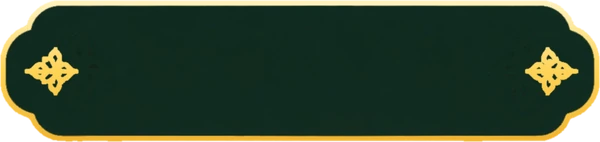
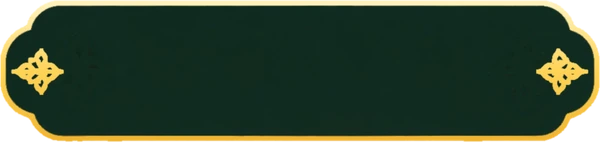
Ana ekran: tuş isimleri tek boyutta, ayet aşağıda, şeffaf gece/gündüz simgesi
- Tuş isimleri: en uzun ismin levhaya sığdığı en büyük punto hesaplanıp 12 tuşta da aynı kullanılır;
  levhanın uçlarındaki motifler kenara yaklaştırıldı, yazıya daha çok yer kaldı.
- Ayet, geri sayım panelinin sol kutusunun üstündeki boşluğa indirildi.
- Gece/gündüz düğmesi diğer sayfalardaki gibi şeffaf altın simge (gündüzde ay, gecede güneş).

Claude-Session: https://claude.ai/code/session_01DGn2qbp3aW4UFTr6T3CtEj

Changed region(s): [[0.0, 0.338, 0.15, 0.6761], [0.87, 0.338, 0.99, 0.6761]]

diff --git a/lib/screens/home_screen.dart b/lib/screens/home_screen.dart
@@ -143,6 +143,7 @@ class _HomeScreenState extends State<HomeScreen> {
               tileH = math.min(tileW / 0.95, (h - maxHero - (_rows - 1) * gap - 2 * pad) / _rows);
             }
             final gridH = gridFor(tileH);
+            final labelSize = MenuTile.fitLabelSize(_items.map((e) => e.title), tileW);
             final heroH = math.max(minHero, h - gridH);
             // Çok kısa ekranlarda (ör. yatay) sığmazsa kaydırılabilir; normalde kaydırma yok.
             final scrolls = heroH + gridH > h + 0.5;
@@ -174,6 +175,7 @@ class _HomeScreenState extends State<HomeScreen> {
                           title: item.title,
                           icon: item.icon,
                           style: AppPrefs.instance.tileStyle,
+                          labelSize: labelSize,
                           onTap: () => _onTap(item),
                         );
                       },
@@ -301,29 +303,33 @@ class _HomeScreenState extends State<HomeScreen> {
           child: Column(
             crossAxisAlignment: CrossAxisAlignment.stretch,
             children: [
-              Padding(
-                padding: EdgeInsets.only(left: 14, bottom: 6 * k),
-                child: Column(
-                  crossAxisAlignment: CrossAxisAlignment.start,
-                  children: [
-                    Text(
-                      '“Şüphesiz\nnamaz, müminler\nüzerine vakitleri\nbelirlenmiş bir farzdır.”',
-                      style: TextStyle(
-                        color: Colors.white,
-                        fontFamily: 'serif', // ayet eski yazı tipiyle, kalın italik
-                        fontSize: 12.5 * k,
-                        fontWeight: FontWeight.w600,
-                        height: 1.3,
-                        fontStyle: FontStyle.italic,
-                        shadows: shadow,
+              Transform.translate(
+                // Panelin sol kutusu ortadaki kemerden daha aşağıdan başlar; ayet o boşluğa iner.
+                offset: Offset(0, 18 * k),
+                child: Padding(
+                  padding: EdgeInsets.only(left: 14, bottom: 6 * k),
+                  child: Column(
+                    crossAxisAlignment: CrossAxisAlignment.start,
+                    children: [
+                      Text(
+                        '“Şüphesiz\nnamaz, müminler\nüzerine vakitleri\nbelirlenmiş bir farzdır.”',
+                        style: TextStyle(
+                          color: Colors.white,
+                          fontFamily: 'serif', // ayet eski yazı tipiyle, kalın italik
+                          fontSize: 12.5 * k,
+                          fontWeight: FontWeight.w600,
+                          height: 1.3,
+                          fontStyle: FontStyle.italic,
+                          shadows: shadow,
+                        ),
                       ),
-                    ),
-                    const SizedBox(height: 2),
-                    GoldText(
-                      'Nisâ, 103',
-                      style: TextStyle(fontFamily: 'serif', fontSize: 10.5 * k, fontWeight: FontWeight.w600),
-                    ),
-                  ],
+                      const SizedBox(height: 2),
+                      GoldText(
+                        'Nisâ, 103',
+                        style: TextStyle(fontFamily: 'serif', fontSize: 10.5 * k, fontWeight: FontWeight.w600),
+                      ),
+                    ],
+                  ),
                 ),
               ),
               Padding(
@@ -384,15 +390,12 @@ class _DayNightButton extends StatelessWidget {
                 : '${toDay ? 'Gündüz' : 'Gece'} görünümü seçildi. Ayarlar\'dan Otomatik\'e alabilirsiniz.',
           );
         },
-        child: Container(
+        // Diğer sayfaların başlığındaki gibi şeffaf altın simge: gündüzde ay (geceye geç), gecede güneş.
+        child: Image.asset(
+          day ? 'assets/images/ikon/imsak.webp' : 'assets/images/ikon/ikindi.webp',
           width: size,
           height: size,
-          decoration: BoxDecoration(
-            shape: BoxShape.circle,
-            color: const Color(0x66000000),
-            border: Border.all(color: const Color(0xB3EBB63B), width: 1.2),
-          ),
-          child: Center(child: GoldIcon(day ? Icons.nightlight_round : Icons.wb_sunny, size: size * 0.52)),
+          fit: BoxFit.contain,
         ),
       ),
     );

diff --git a/lib/widgets/menu_tile.dart b/lib/widgets/menu_tile.dart
@@ -11,6 +11,7 @@ class MenuTile extends StatelessWidget {
   final TileStyle style;
   final bool hasPhoto; // görseli henüz yoksa simgeli gösterilir
   final VoidCallback onTap;
+  final double labelSize; // tüm tuşlarda aynı; en uzun isim levhaya sığacak şekilde [fitLabelSize] ile bulunur
 
   const MenuTile({
     super.key,
@@ -20,7 +21,28 @@ class MenuTile extends StatelessWidget {
     required this.style,
     required this.onTap,
     this.hasPhoto = true,
+    this.labelSize = 17.5,
   });
+
+  /// Levhada, uçlardaki motiflerin arasında yazıya kalan genişlik oranı.
+  static const _textArea = 0.8;
+
+  /// Verilen tuş genişliğinde, isimlerin hepsinin levhaya sığdığı en büyük yazı boyutu (en çok 20).
+  static double fitLabelSize(Iterable<String> titles, double tileWidth) {
+    const probe = 20.0;
+    final avail = (tileWidth - 8) * _textArea;
+    var widest = 0.0;
+    for (final t in titles) {
+      final p = TextPainter(
+        text: TextSpan(
+            text: t, style: const TextStyle(fontFamily: 'EBGaramond', fontWeight: FontWeight.w600, fontSize: probe)),
+        textDirection: TextDirection.ltr,
+        maxLines: 1,
+      )..layout();
+      if (p.width > widest) widest = p.width;
+    }
+    return widest == 0 ? probe : (probe * avail / widest * 0.92).clamp(10.0, probe);
+  }
 
   @override
   Widget build(BuildContext context) {
@@ -48,7 +70,7 @@ class MenuTile extends StatelessWidget {
             image: DecorationImage(image: AssetImage('assets/images/levha.webp'), fit: BoxFit.fill),
           ),
           child: FractionallySizedBox(
-            widthFactor: 0.7,
+            widthFactor: _textArea,
             child: Center(
               child: FittedBox(
                 fit: BoxFit.scaleDown,
@@ -57,8 +79,8 @@ class MenuTile extends StatelessWidget {
                   maxLines: 1,
                   textAlign: TextAlign.center,
                   tone: GoldTone.onDark,
-                  style: const TextStyle(
-                      fontFamily: 'EBGaramond', fontWeight: FontWeight.w600, fontSize: 17.5, letterSpacing: 0),
+                  style: TextStyle(
+                      fontFamily: 'EBGaramond', fontWeight: FontWeight.w600, fontSize: labelSize, letterSpacing: 0),
                 ),
               ),
             ),
